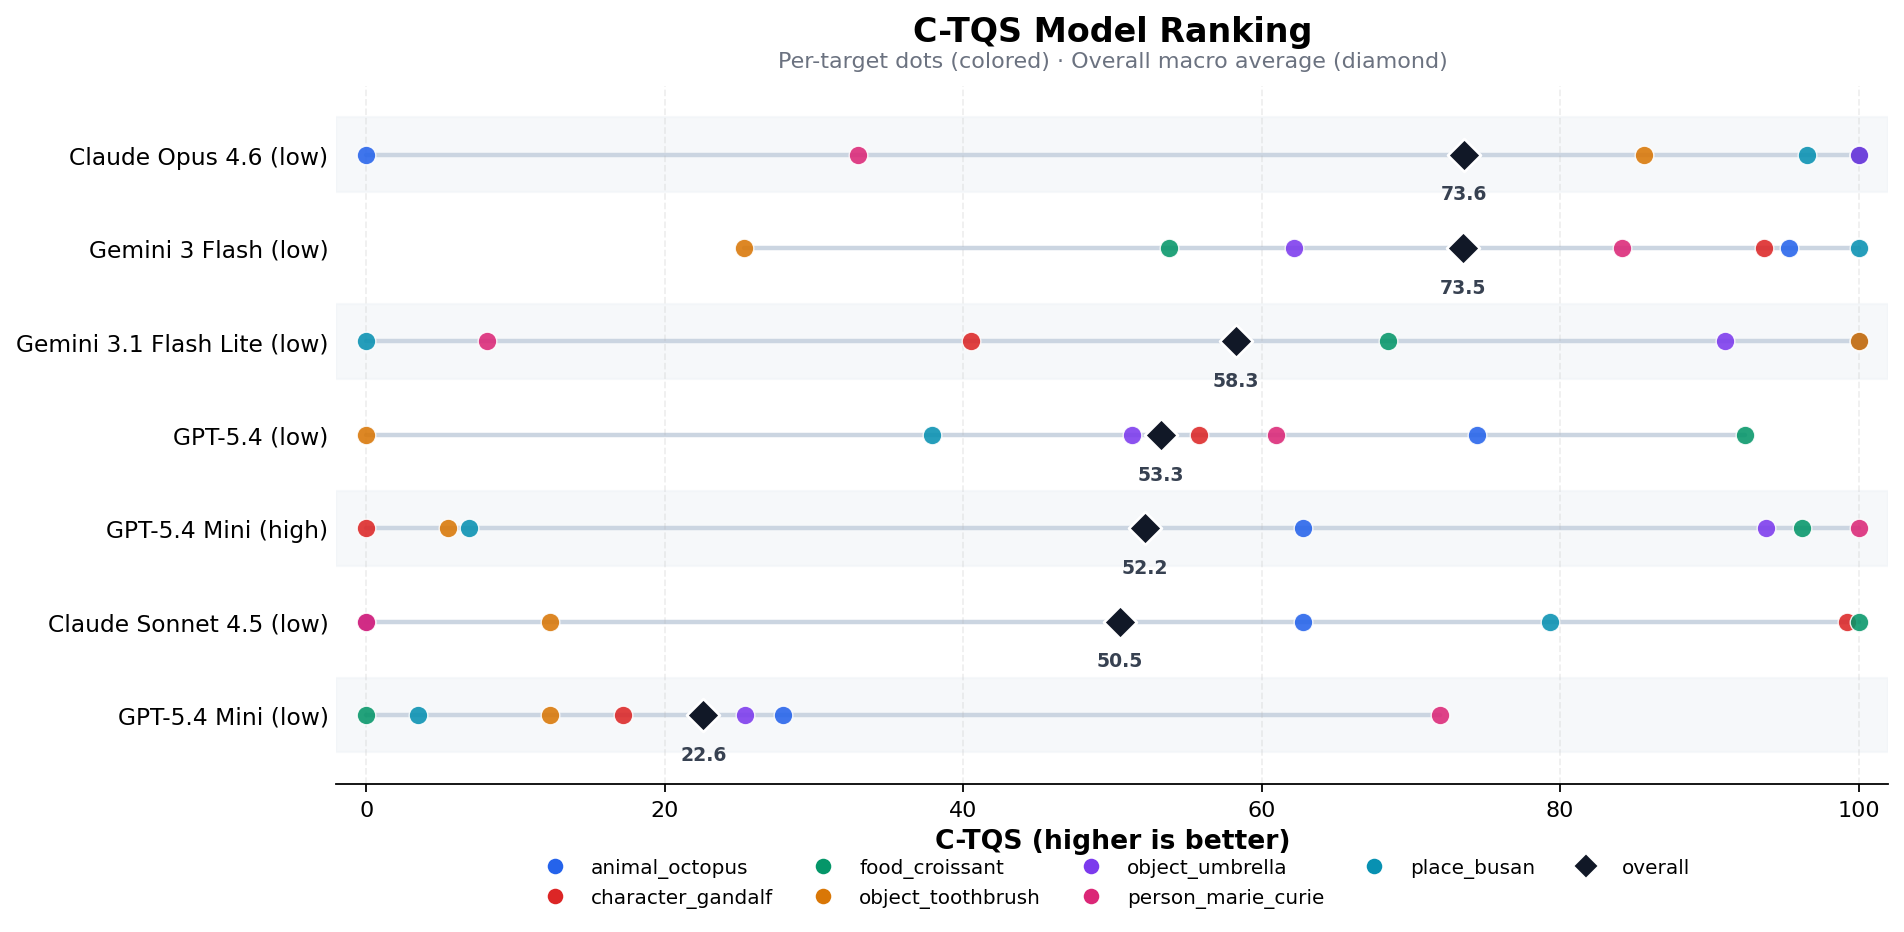
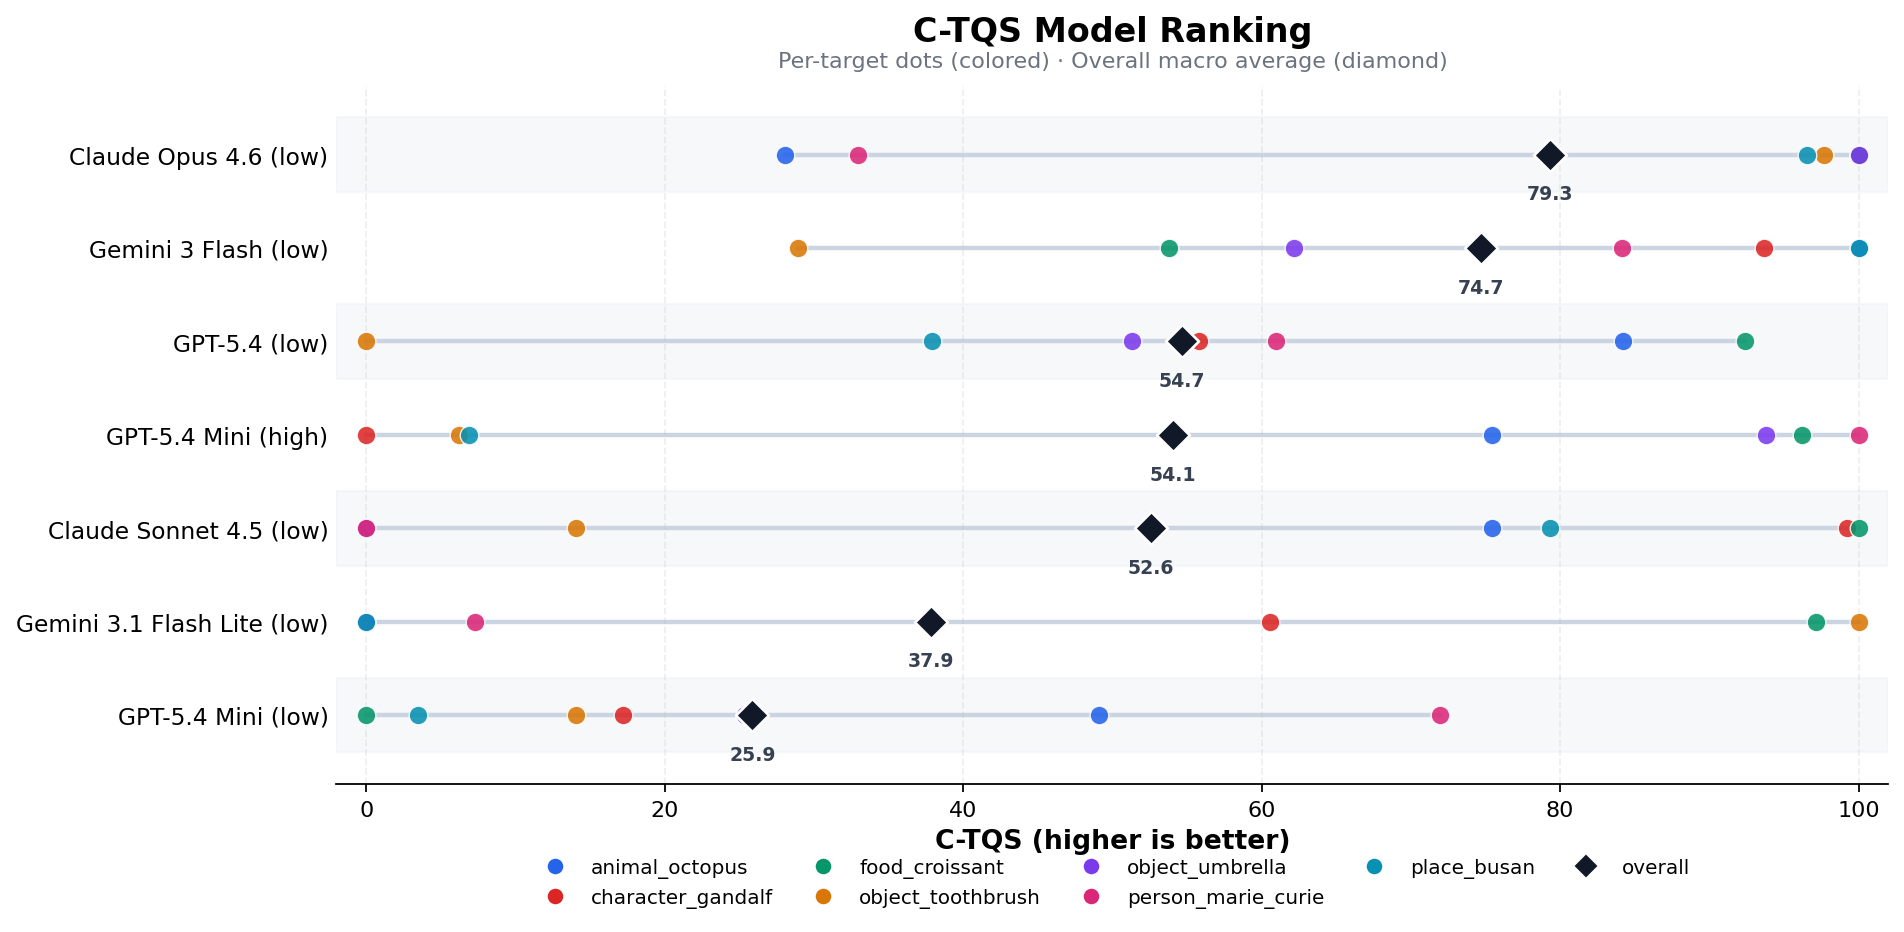
FIX: result updated

diff --git a/README.md b/README.md
@@ -16,16 +16,35 @@ One model acts as the guesser. Another acts as the judge. Every run produces ful
 
 The overview plot is generated from `results/results.csv`. See [Reproducibility](docs/reproducibility.md) for the exact commands and paths.
 
+## How It Works
+
+```text
+    Guesser                      Judge
+       |                           |
+       |--- "Is it a place?" ----->|
+       |<-- {"label":"Yes"} -------|
+       |                           |
+       |--- "Is it in Europe?" --->|
+       |<-- {"label":"Yes"} -------|
+       |                           |
+       |--- "Is it Paris?" ------->|
+       |<-- {"label":"Yes"} -------|  => SOLVED in 3 turns
+```
+
+- There is no separate "final guess" phase.
+- The guesser wins by asking a direct identity-check question that the judge confirms.
+- Every turn is logged with prompts, raw outputs, judgments, latency, and transcript artifacts.
+
 ## Benchmark Results
 
-The table below summarizes per-model performance across 980 runs (7 targets × 7 model variants × 20 repetitions). Each model variant is identified by the base model and its reasoning effort setting (e.g., `low` or `high`).
+The table below summarizes per-model performance across the 979 runs currently present in `results/results.csv`. Each model variant is identified by the base model and its reasoning effort setting (e.g., `low` or `high`).
 
 | Rank | Model | Solve Rate | Avg Turns / Success | Runs |
 |-----:|-------|----------:|--------------------:|-----:|
 | 1 | Claude Opus 4.6 (low) | 99.29% | 21.13 | 140 |
-| 2 | Gemini 3.1 Flash Lite (low) | 99.22% | 23.15 | 128 |
-| 3 | GPT-5.4 (low) | 98.57% | 23.12 | 140 |
-| 4 | GPT-5.4 Mini (high) | 98.56% | 23.97 | 139 |
+| 2 | GPT-5.4 (low) | 98.57% | 23.12 | 140 |
+| 3 | GPT-5.4 Mini (high) | 98.56% | 23.97 | 139 |
+| 4 | Gemini 3.1 Flash Lite (low) | 93.57% | 25.05 | 140 |
 | 5 | GPT-5.4 Mini (low) | 93.57% | 28.24 | 140 |
 | 6 | Claude Sonnet 4.5 (low) | 91.43% | 22.79 | 140 |
 | 7 | Gemini 3 Flash (low) | 90.71% | 21.87 | 140 |
@@ -85,13 +104,13 @@ The C-TQS ranking chart shows each model as a row. Colored dots represent per-ta
 
 | Rank | Model | C-TQS |
 |-----:|-------|------:|
-| 1 | Claude Opus 4.6 (low) | 73.6 |
-| 2 | Gemini 3 Flash (low) | 73.5 |
-| 3 | Gemini 3.1 Flash Lite (low) | 58.3 |
-| 4 | GPT-5.4 (low) | 53.3 |
-| 5 | GPT-5.4 Mini (high) | 52.2 |
-| 6 | Claude Sonnet 4.5 (low) | 50.5 |
-| 7 | GPT-5.4 Mini (low) | 22.6 |
+| 1 | Claude Opus 4.6 (low) | 79.31 |
+| 2 | Gemini 3 Flash (low) | 74.68 |
+| 3 | GPT-5.4 (low) | 54.66 |
+| 4 | GPT-5.4 Mini (high) | 54.08 |
+| 5 | Claude Sonnet 4.5 (low) | 52.57 |
+| 6 | Gemini 3.1 Flash Lite (low) | 37.86 |
+| 7 | GPT-5.4 Mini (low) | 25.88 |
 
 Notably, **Gemini 3 Flash** ranks 2nd in C-TQS despite placing 7th in raw solve rate. This reflects that when it does solve, it solves *fast* — exactly the kind of nuance C-TQS is designed to capture.
 
@@ -117,25 +136,6 @@ python3 -m analysis.plot_c_tqs \
 - Run repeated evaluation suites across multiple models and targets
 - Aggregate many suite runs into a single benchmark report
 - Regenerate a leaderboard-style overview plot from fresh results
-
-## How It Works
-
-```text
-    Guesser                      Judge
-       |                           |
-       |--- "Is it a place?" ----->|
-       |<-- {"label":"Yes"} -------|
-       |                           |
-       |--- "Is it in Europe?" --->|
-       |<-- {"label":"Yes"} -------|
-       |                           |
-       |--- "Is it Paris?" ------->|
-       |<-- {"label":"Yes"} -------|  => SOLVED in 3 turns
-```
-
-- There is no separate "final guess" phase.
-- The guesser wins by asking a direct identity-check question that the judge confirms.
-- Every turn is logged with prompts, raw outputs, judgments, latency, and transcript artifacts.
 
 ## Targets
 
@@ -204,7 +204,7 @@ This writes:
 python3 -m analysis.plot_model_overview
 ```
 
-By default this reads `reports/single-target-suite/benchmark-analysis/aggregate.json` and writes `img/model_overview.png`.
+By default this reads `results/results.csv` and writes `img/model_overview.png`.
 
 ### Reasoning Configuration
 
